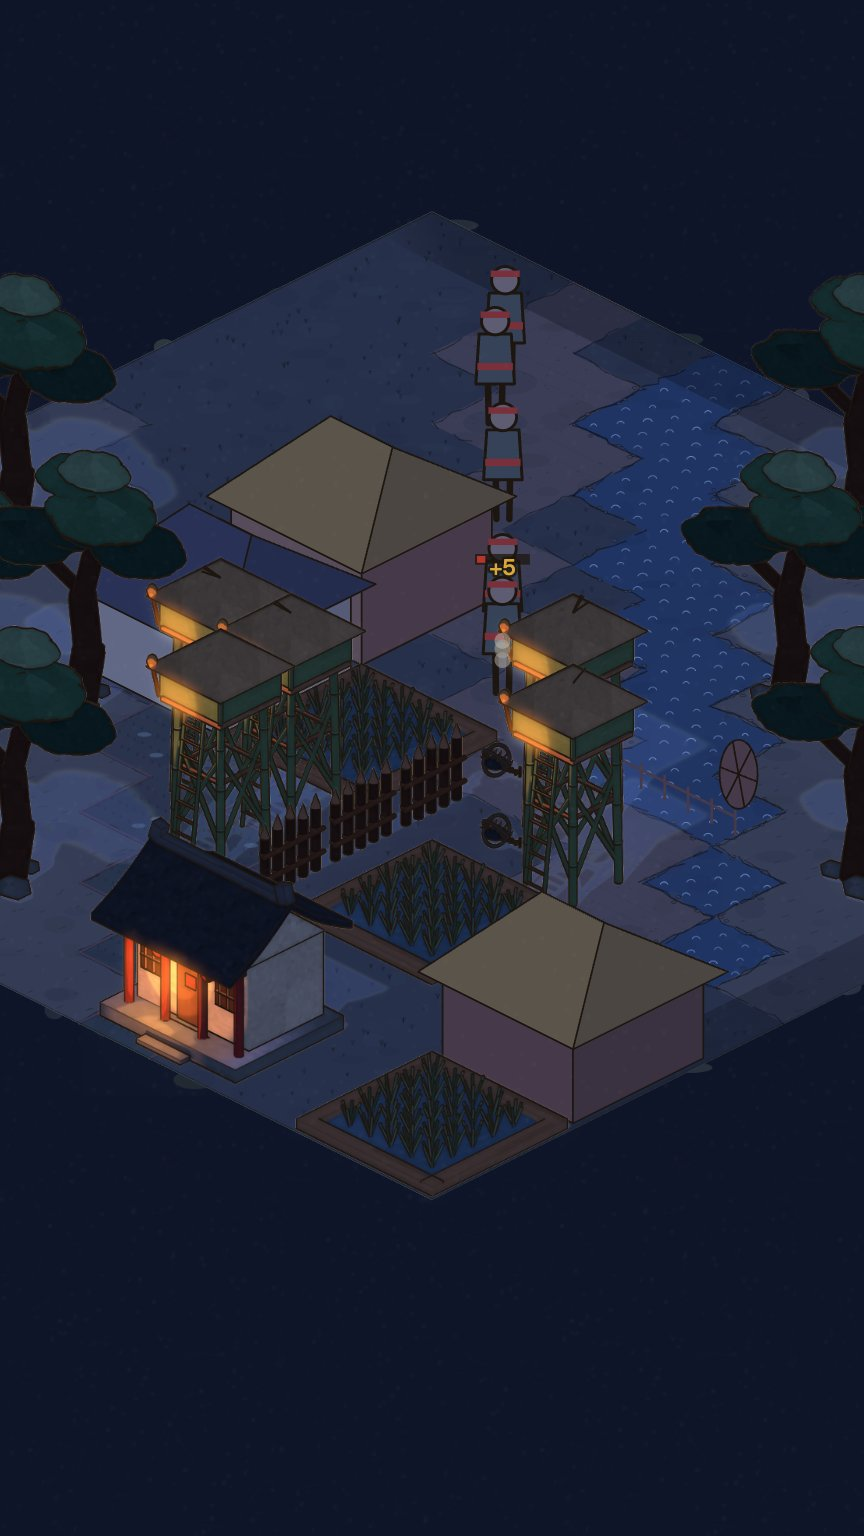
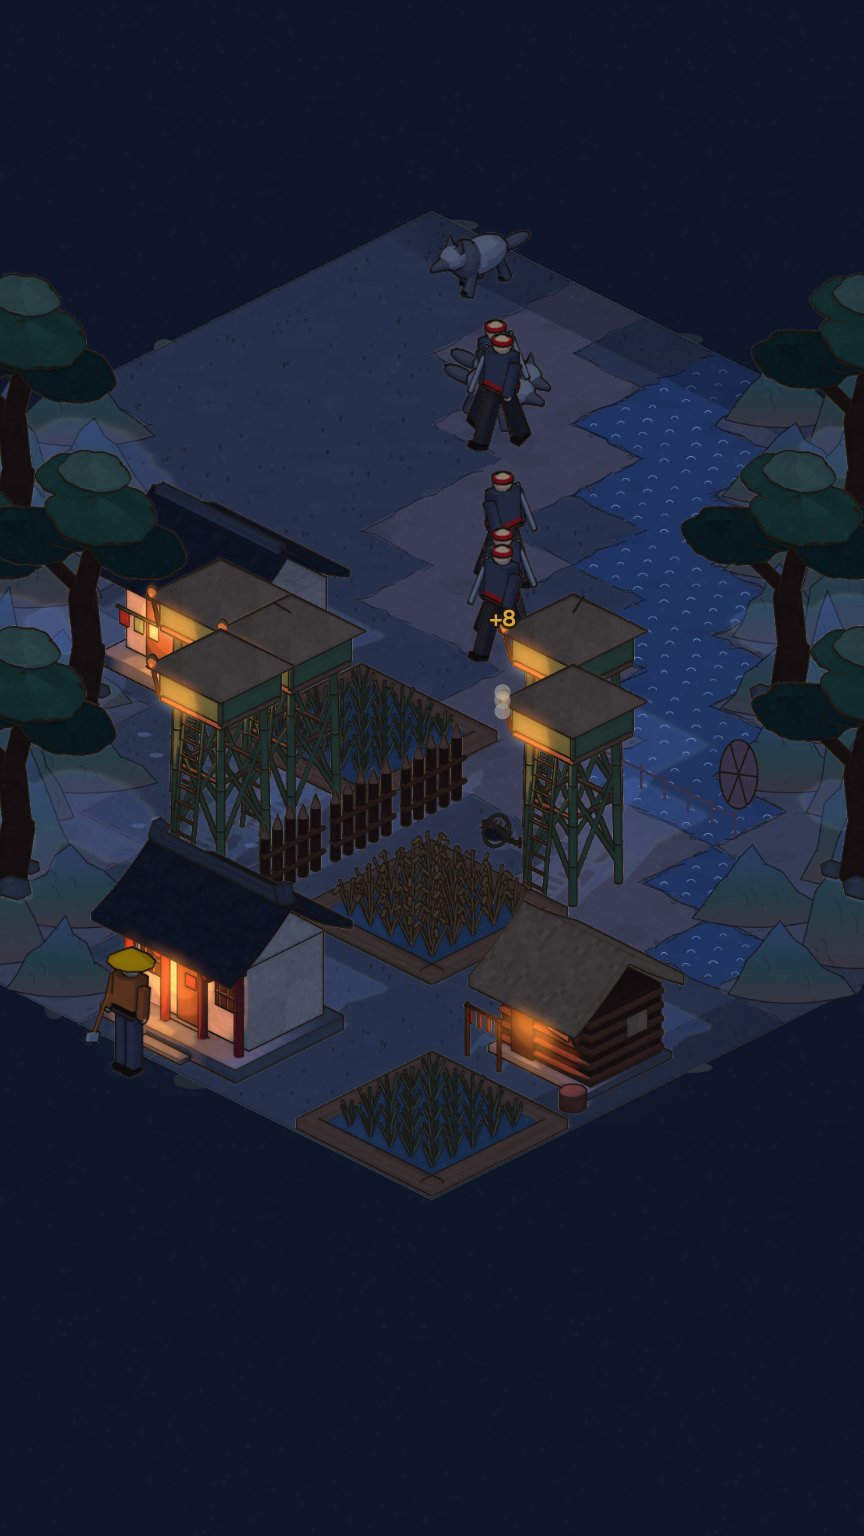
feat(art): procedural proxies for thatched hut, wing room, lodge, granary, oil tower
Five more building proxies baked through the same stylizer at half
scale and merged into the dev atlas; the demo now draws every built
structure as a baked sprite (starting hut, wing room, hunting lodge,
granary, oil-fire tower). They are interim art and a fallback should
image-to-3D struggle; real assets replace them by id.

diff --git a/client/src/demo/main.ts b/client/src/demo/main.ts
@@ -327,14 +327,17 @@ async function boot(): Promise<void> {
 
   // ---------------------------------------------------------------- 场景同步
   const scene = new Scene(map.cols, map.rows, atlas);
+  /** 玩法里的建筑 id → 资产 id（厢房在玩法里叫 wing_room，资产叫 house_wing_room） */
+  const spriteKind = (kind: string) => (kind === "wing_room" ? "house_wing_room" : kind);
   const isWallAt = (i: number, j: number) => {
     const id = g.grid.occupant(i, j);
     return !!id && g.buildings.get(id)?.category === "wall";
   };
   const spriteFor = (b: Building): string | null => {
     const has = (s: string) => (atlas.sprites[s] ? s : null);
-    if (b.category === "house") return g.houseLevel === 2 ? has("house_lv2_tile") : null;
+    if (b.category === "house") return g.houseLevel === 1 ? has("house_lv1_thatch") : g.houseLevel === 2 ? has("house_lv2_tile") : null;
     if (b.kind === "tower_bamboo" || b.kind === "tower_crossbow") return has("tower_bamboo");
+    if (["house_wing_room", "hunt_lodge", "granary", "tower_oil_fire"].includes(spriteKind(b.kind))) return has(spriteKind(b.kind));
     if (b.category === "wall") {
       // 只和 ±Y 方向的墙相连 → 用 90° 那张，墙段就能接成一条线
       const alongY = (isWallAt(b.i, b.j - 1) || isWallAt(b.i, b.j + 1)) && !(isWallAt(b.i - 1, b.j) || isWallAt(b.i + 1, b.j));

diff --git a/pipeline/blender/make_proxy_assets.py b/pipeline/blender/make_proxy_assets.py
@@ -337,7 +337,115 @@ def build_trap_bear():
     cyl("stake", 0.035, 0.3, (0.95, 0, 0.12), "wood_dark", verts=6)
 
 
+def _pyramid(name, radius, depth, loc, mat):
+    bpy.ops.mesh.primitive_cone_add(vertices=4, radius1=radius, radius2=0.0, depth=depth, location=loc, rotation=(0, 0, math.radians(45)))
+    o = bpy.context.active_object
+    o.name = name
+    return assign(o, mat)
+
+
+def build_house_lv1_thatch():
+    """漏风茅草屋：夯土墙 + 厚茅草双坡顶 + 歪木门 + 小窗 + 柴堆（开局的家）"""
+    box("earth_base", (3.0, 2.6, 0.2), (0, 0.1, 0.1), "stone")
+    box("earth_walls", (2.7, 2.2, 1.7), (0, 0.15, 1.05), "ochre_light")
+    for k in range(3):  # 夯土层线
+        box(f"earth_course{k}", (2.72, 2.22, 0.04), (0, 0.15, 0.6 + k * 0.45), "ochre")
+    box("door", (0.7, 0.06, 1.25), (0.3, -0.96, 0.85), "wood_dark", rot=(0, math.radians(3), 0))
+    box("window", (0.45, 0.05, 0.4), (-0.75, -0.96, 1.25), "straw")
+    gable_roof("thatch", 3.3, 1.75, 1.75, 2.95, 0.32, "straw", curve=0.05)
+    box("thatch_ridge", (3.3, 0.35, 0.22), (0, 0, 3.05), "gamboge")
+    for k in range(3):
+        rod(f"press{k}", (-1.6, -1.4 + k * 0.05, 2.0 + k * 0.35), (1.6, -1.4 + k * 0.05, 2.0 + k * 0.35), 0.04, "wood_dark")
+    for k in range(5):
+        cyl(f"firewood{k}", 0.09, 0.9, (1.15 + (k % 3) * 0.19, -1.1, 0.12 + (k // 3) * 0.17), "ochre", rot=(math.radians(90), 0, 0), verts=8)
+
+
+def build_house_wing_room():
+    """家族厢房：青石台基 + 白灰墙 + 小青瓦顶 + 格窗 + 红灯笼 + 摇篮"""
+    box("plinth", (3.4, 2.8, 0.28), (0, 0, 0.14), "stone")
+    box("walls", (3.0, 2.2, 1.8), (0, 0.15, 1.18), "lime_white")
+    box("door", (0.75, 0.06, 1.35), (-0.55, -0.97, 0.96), "ochre")
+    box("win", (0.8, 0.05, 0.65), (0.65, -0.97, 1.35), "wood_dark")
+    for k in range(3):
+        box(f"win_m{k}", (0.04, 0.03, 0.6), (0.4 + k * 0.25, -1.0, 1.35), "ochre_light")
+    gable_roof("roof", 3.5, 1.6, 2.05, 3.1, 0.14, "tile_dark")
+    box("ridge", (3.2, 0.2, 0.16), (0, 0, 3.22), "tile_light")
+    sphere("lantern", 0.15, (-0.05, -1.05, 1.8), "cinnabar", scale=(1, 1, 1.25))
+    box("cradle", (0.55, 0.35, 0.25), (1.2, -1.05, 0.42), "ochre_light")
+    rod("pole", (-1.45, -1.25, 1.3), (-0.2, -1.25, 1.3), 0.025, "bamboo")
+    for k in range(3):
+        box(f"cloth{k}", (0.22, 0.03, 0.3), (-1.25 + k * 0.38, -1.25, 1.12), ("cinnabar", "malachite_light", "lime_white")[k])
+
+
+def build_hunt_lodge():
+    """林间猎棚：原木墙 + 茅草树皮顶 + 墙上兽皮与弓 + 晾肉架 + 树墩"""
+    box("lodge_base", (2.8, 2.4, 0.15), (0, 0.1, 0.075), "stone")
+    box("lodge_walls", (2.5, 2.0, 1.6), (0, 0.15, 0.95), "wood_dark")
+    for k in range(5):  # 原木横纹
+        rod(f"log_f{k}", (-1.28, -0.86, 0.3 + k * 0.32), (1.28, -0.86, 0.3 + k * 0.32), 0.07, "ochre")
+        rod(f"log_s{k}", (1.26, -0.85, 0.3 + k * 0.32), (1.26, 1.15, 0.3 + k * 0.32), 0.07, "ochre")
+    box("lodge_door", (0.6, 0.06, 1.15), (-0.6, -0.92, 0.75), "wood_dark")
+    box("hide1", (0.6, 0.04, 0.5), (0.45, -0.94, 1.3), "ochre_light", rot=(0, math.radians(8), 0))
+    box("hide2", (0.04, 0.55, 0.45), (1.33, 0.4, 1.15), "straw")
+    bpy.ops.mesh.primitive_torus_add(major_radius=0.35, minor_radius=0.025, location=(0.95, -0.95, 1.35), rotation=(math.radians(90), 0, 0))
+    bow = bpy.context.active_object; bow.name = "bow"; bow.scale = (0.4, 1, 1); assign(bow, "wood_dark")
+    gable_roof("lodge_roof", 3.0, 1.55, 1.65, 2.75, 0.25, "straw", curve=0.08)
+    for k in range(2):
+        rod(f"rack_post{k}", (-1.6 + k * 0.9, -1.5, 0), (-1.6 + k * 0.9, -1.5, 1.2), 0.04, "wood_dark")
+    rod("rack_bar", (-1.65, -1.5, 1.15), (-0.65, -1.5, 1.15), 0.035, "wood_dark")
+    for k in range(4):
+        box(f"jerky{k}", (0.08, 0.04, 0.32), (-1.5 + k * 0.25, -1.5, 0.95), "cinnabar")
+    cyl("stump", 0.28, 0.35, (1.35, -1.45, 0.17), "ochre", verts=12)
+
+
+def build_granary():
+    """防潮粮仓：四根木柱架高 + 防鼠石盘 + 木板仓 + 茅草四坡顶 + 木梯 + 麻袋"""
+    for k, (x, y) in enumerate(((-1.0, -1.0), (1.0, -1.0), (1.0, 1.0), (-1.0, 1.0))):
+        cyl(f"post{k}", 0.13, 1.0, (x, y, 0.5), "wood_dark", verts=10)
+        cyl(f"guard{k}", 0.26, 0.08, (x, y, 1.02), "stone", verts=14)
+    box("floor", (2.5, 2.5, 0.16), (0, 0, 1.12), "ochre")
+    box("bin", (2.3, 2.3, 1.5), (0, 0, 1.95), "ochre_light")
+    for k in range(5):
+        box(f"plank{k}", (0.03, 2.32, 1.5), (-1.15 + k * 0.575, 0, 1.95), "ochre")
+    box("bin_door", (0.6, 0.05, 0.8), (0.2, -1.17, 1.85), "wood_dark")
+    _pyramid("granary_roof", 2.2, 1.3, (0, 0, 3.35), "straw")
+    for i, x in enumerate((-0.05, 0.4)):
+        rod(f"ladder_rail{i}", (x, -1.85, 0), (x, -1.2, 1.2), 0.035, "wood_dark")
+    for k in range(1, 5):
+        t = k / 5
+        rod(f"ladder_rung{k}", (-0.05, -1.85 + 0.65 * t, 1.2 * t), (0.4, -1.85 + 0.65 * t, 1.2 * t), 0.025, "rope")
+    for k in range(3):
+        sphere(f"sack{k}", 0.24, (-1.2 + k * 0.35, -1.55, 0.22), "straw", scale=(1, 0.85, 1.2), seg=12)
+
+
+def build_tower_oil_fire():
+    """火油连弩塔：青砖底层 + 木构上层 + 平台火盆 + 黑陶油罐 + 朱砂四坡顶"""
+    box("brick_base", (1.5, 1.5, 2.2), (0, 0, 1.1), "tile_light")
+    for k in range(4):
+        box(f"brick_course{k}", (1.52, 1.52, 0.04), (0, 0, 0.45 + k * 0.45), "stone")
+    box("timber", (1.4, 1.4, 1.3), (0, 0, 2.85), "ochre")
+    for k, (x, y) in enumerate(((-0.7, -0.7), (0.7, -0.7), (0.7, 0.7), (-0.7, 0.7))):
+        cyl(f"tpost{k}", 0.07, 1.4, (x, y, 2.85), "wood_dark", verts=8)
+    box("platform", (1.8, 1.8, 0.14), (0, 0, 3.57), "wood_dark")
+    for k, (sx, sy, rx) in enumerate(((0, -1, 1), (0, 1, 1), (-1, 0, 0), (1, 0, 0))):
+        box(f"parapet{k}", (1.8, 0.08, 0.45) if rx else (0.08, 1.8, 0.45), (sx * 0.86, sy * 0.86, 3.86), "ochre")
+    box("crossbow", (0.18, 0.9, 0.12), (0, -0.4, 3.95), "wood_dark")
+    rod("bow_arm", (-0.45, -0.75, 3.98), (0.45, -0.75, 3.98), 0.03, "wood_dark")
+    cyl("brazier", 0.2, 0.2, (0.6, -0.6, 3.75), "tile_dark", verts=12)
+    sphere("fire", 0.17, (0.6, -0.6, 3.95), "gamboge", scale=(1, 1, 1.5))
+    for k in range(3):
+        sphere(f"jar{k}", 0.16, (-0.6 + k * 0.3, 0.6, 3.78), "tile_dark", scale=(1, 1, 1.3), seg=12)
+    for k, (x, y) in enumerate(((-0.85, -0.85), (0.85, -0.85), (0.85, 0.85), (-0.85, 0.85))):
+        cyl(f"roofpost{k}", 0.05, 0.9, (x, y, 4.1), "wood_dark", verts=8)
+    _pyramid("oil_roof", 1.55, 1.0, (0, 0, 5.05), "cinnabar")
+
+
 BUILDERS = {
+    "house_lv1_thatch": build_house_lv1_thatch,
+    "house_wing_room": build_house_wing_room,
+    "hunt_lodge": build_hunt_lodge,
+    "granary": build_granary,
+    "tower_oil_fire": build_tower_oil_fire,
     "house_lv2_tile": build_house_lv2_tile,
     "tower_bamboo": build_tower_bamboo,
     "prop_pine_tree": build_prop_pine_tree,

diff --git a/HANDOFF.md b/HANDOFF.md
@@ -195,3 +195,7 @@
 - **已完成**：`make_characters.py`（9 个角色：狼/野猪/熊王四足一套骨骼，五种土匪 + 二当家/大当家人形一套骨骼，8 帧行走循环）+ `bake_sprite_anim.py`（复用建筑烘培的相机/光照/墨线/渲染通道与 `stylize_sprites`，两个朝向 + 镜像，夜晚版由白昼调色保证可读）；本机半比例 9 个角色约 3 分钟烘完；导出到 `client/assets/dev/chars/`（`chars.json`）；`src/render/animSprites.ts` + 演示接入（有序列帧就用，否则退回程序化画法），44 项单测。美术圣经补“角色”一节。
 - **追加**：攻击动作（6 帧）、家人角色（当家的 / 阿莲 / 孩子）与演示里的白天走动、夜里守门；熊王造型修正（短吻、低尾、细腰带）；烘培笔记本可一并烘角色（`BAKE_CHARACTERS`）。
 - **未做**：受击 / 逃跑动作（击退仍用冒烟）；家人“干活”动作；正式比例（128px/m）烘培应放 Colab。
+
+### 2026-11-23 · Claude Opus（更多程序化建筑替身 + 青绿山石）
+- **已完成**：`make_proxy_assets.py` 新增茅草屋、厢房、猎棚、粮仓、火油连弩塔 5 件程序化替身并半比例烘培导出，演示里对应建筑全部换成烘培精灵（截图 `docs/art/samples/demo_day5.jpg`、`proxy_buildings_v1.png`）；地面山石格画成青绿山水式石峰；遮挡排序 250 物体 0.84ms/帧；陷阱触发时机修正。
+- **说明**：这些替身是过渡美术，也是图生 3D 失败时的兜底；AI 资产出图后同 id 直接覆盖即可。
